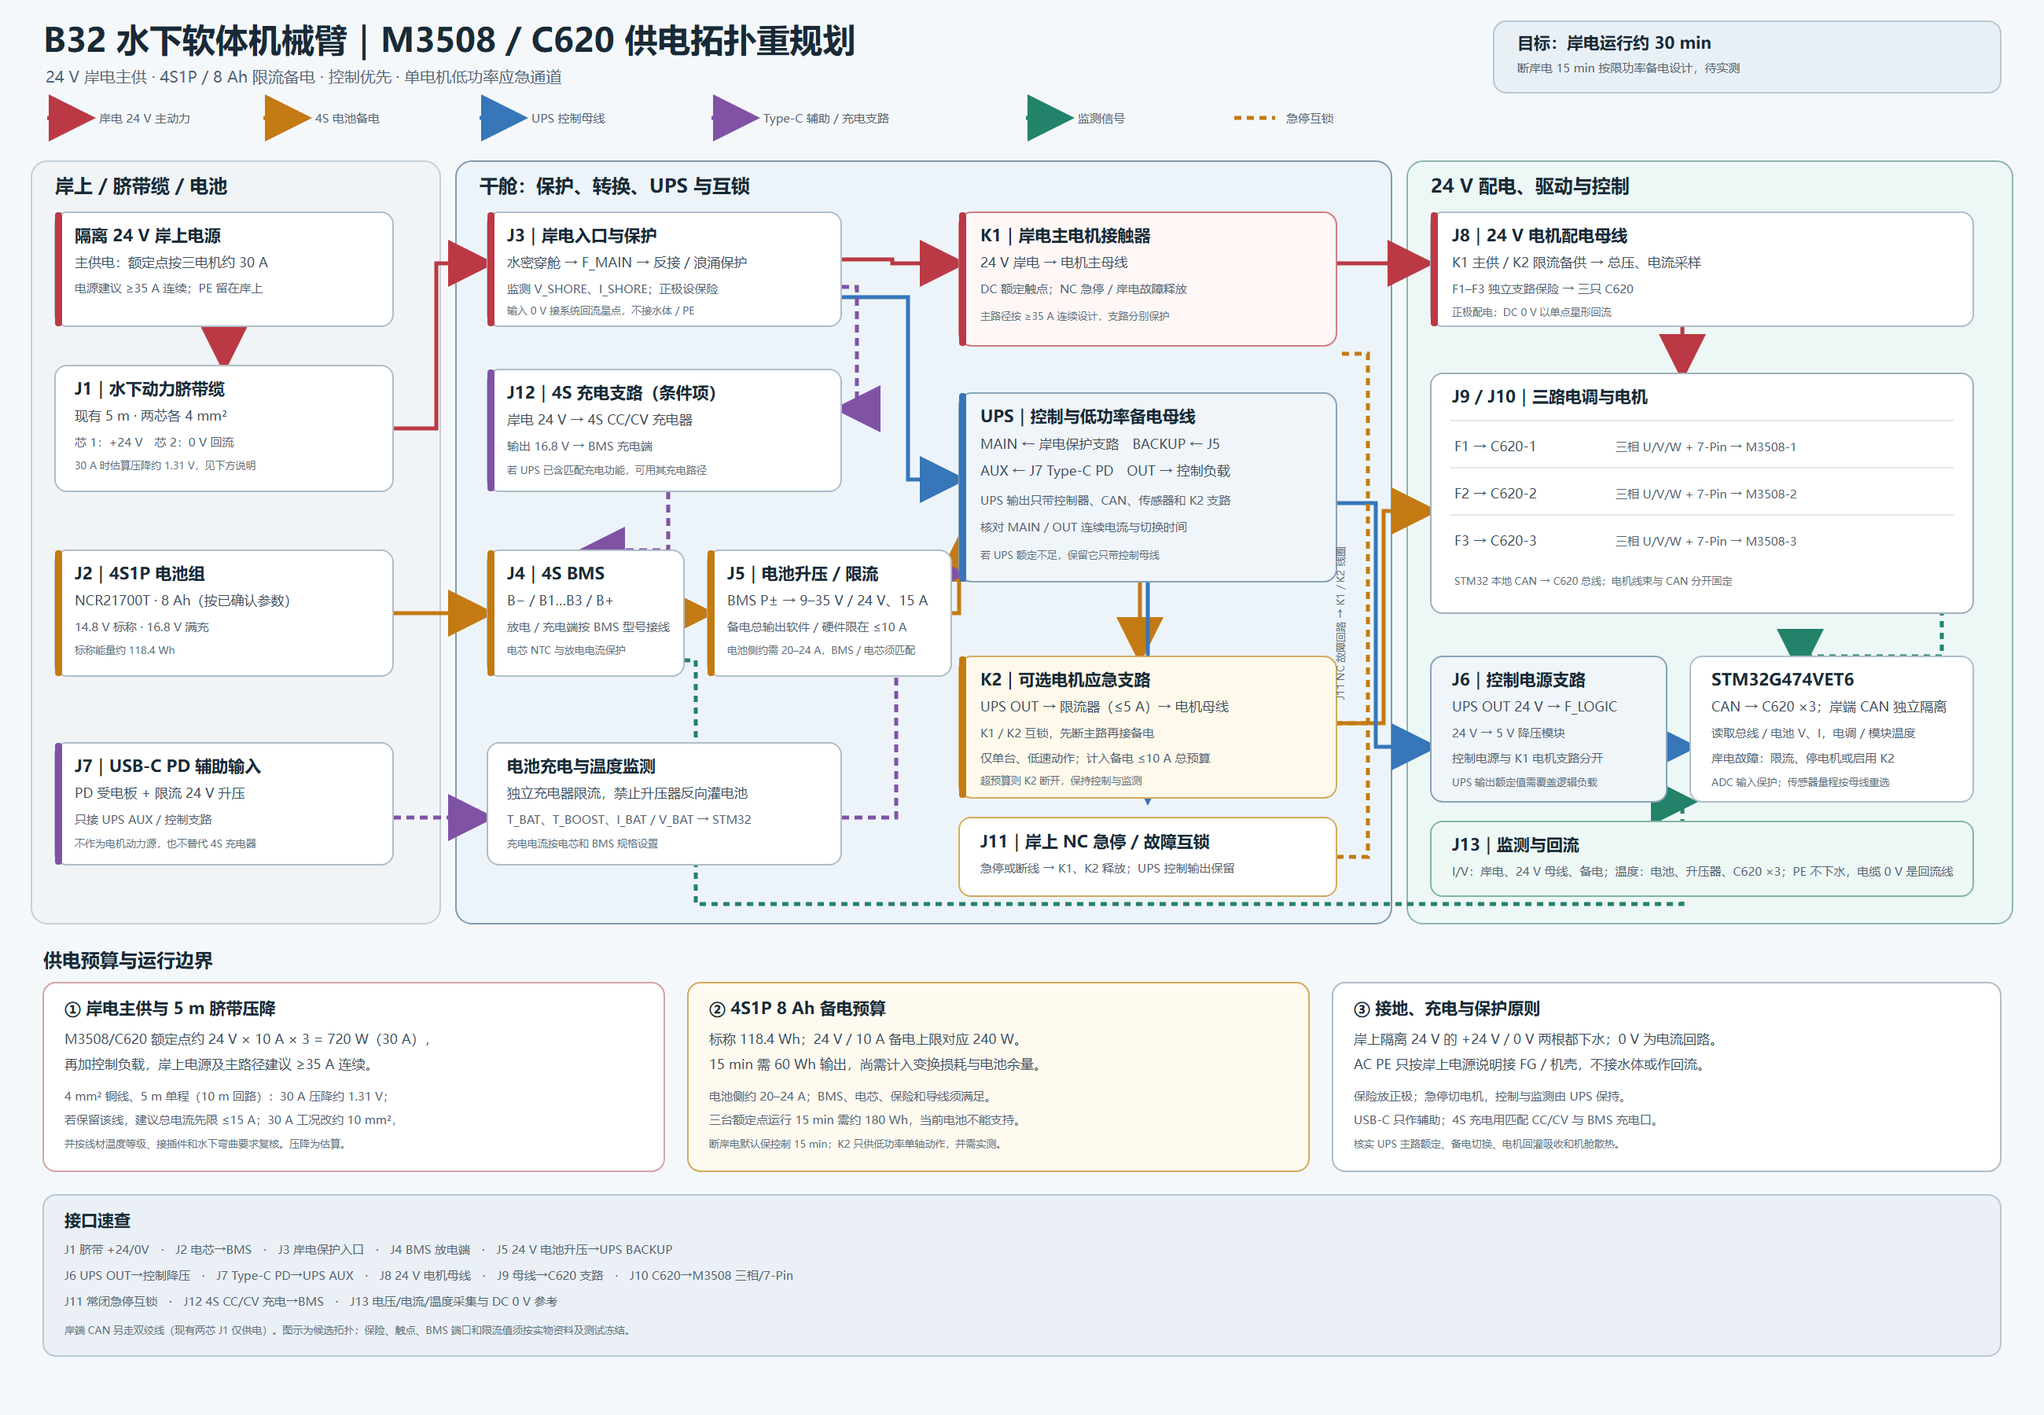
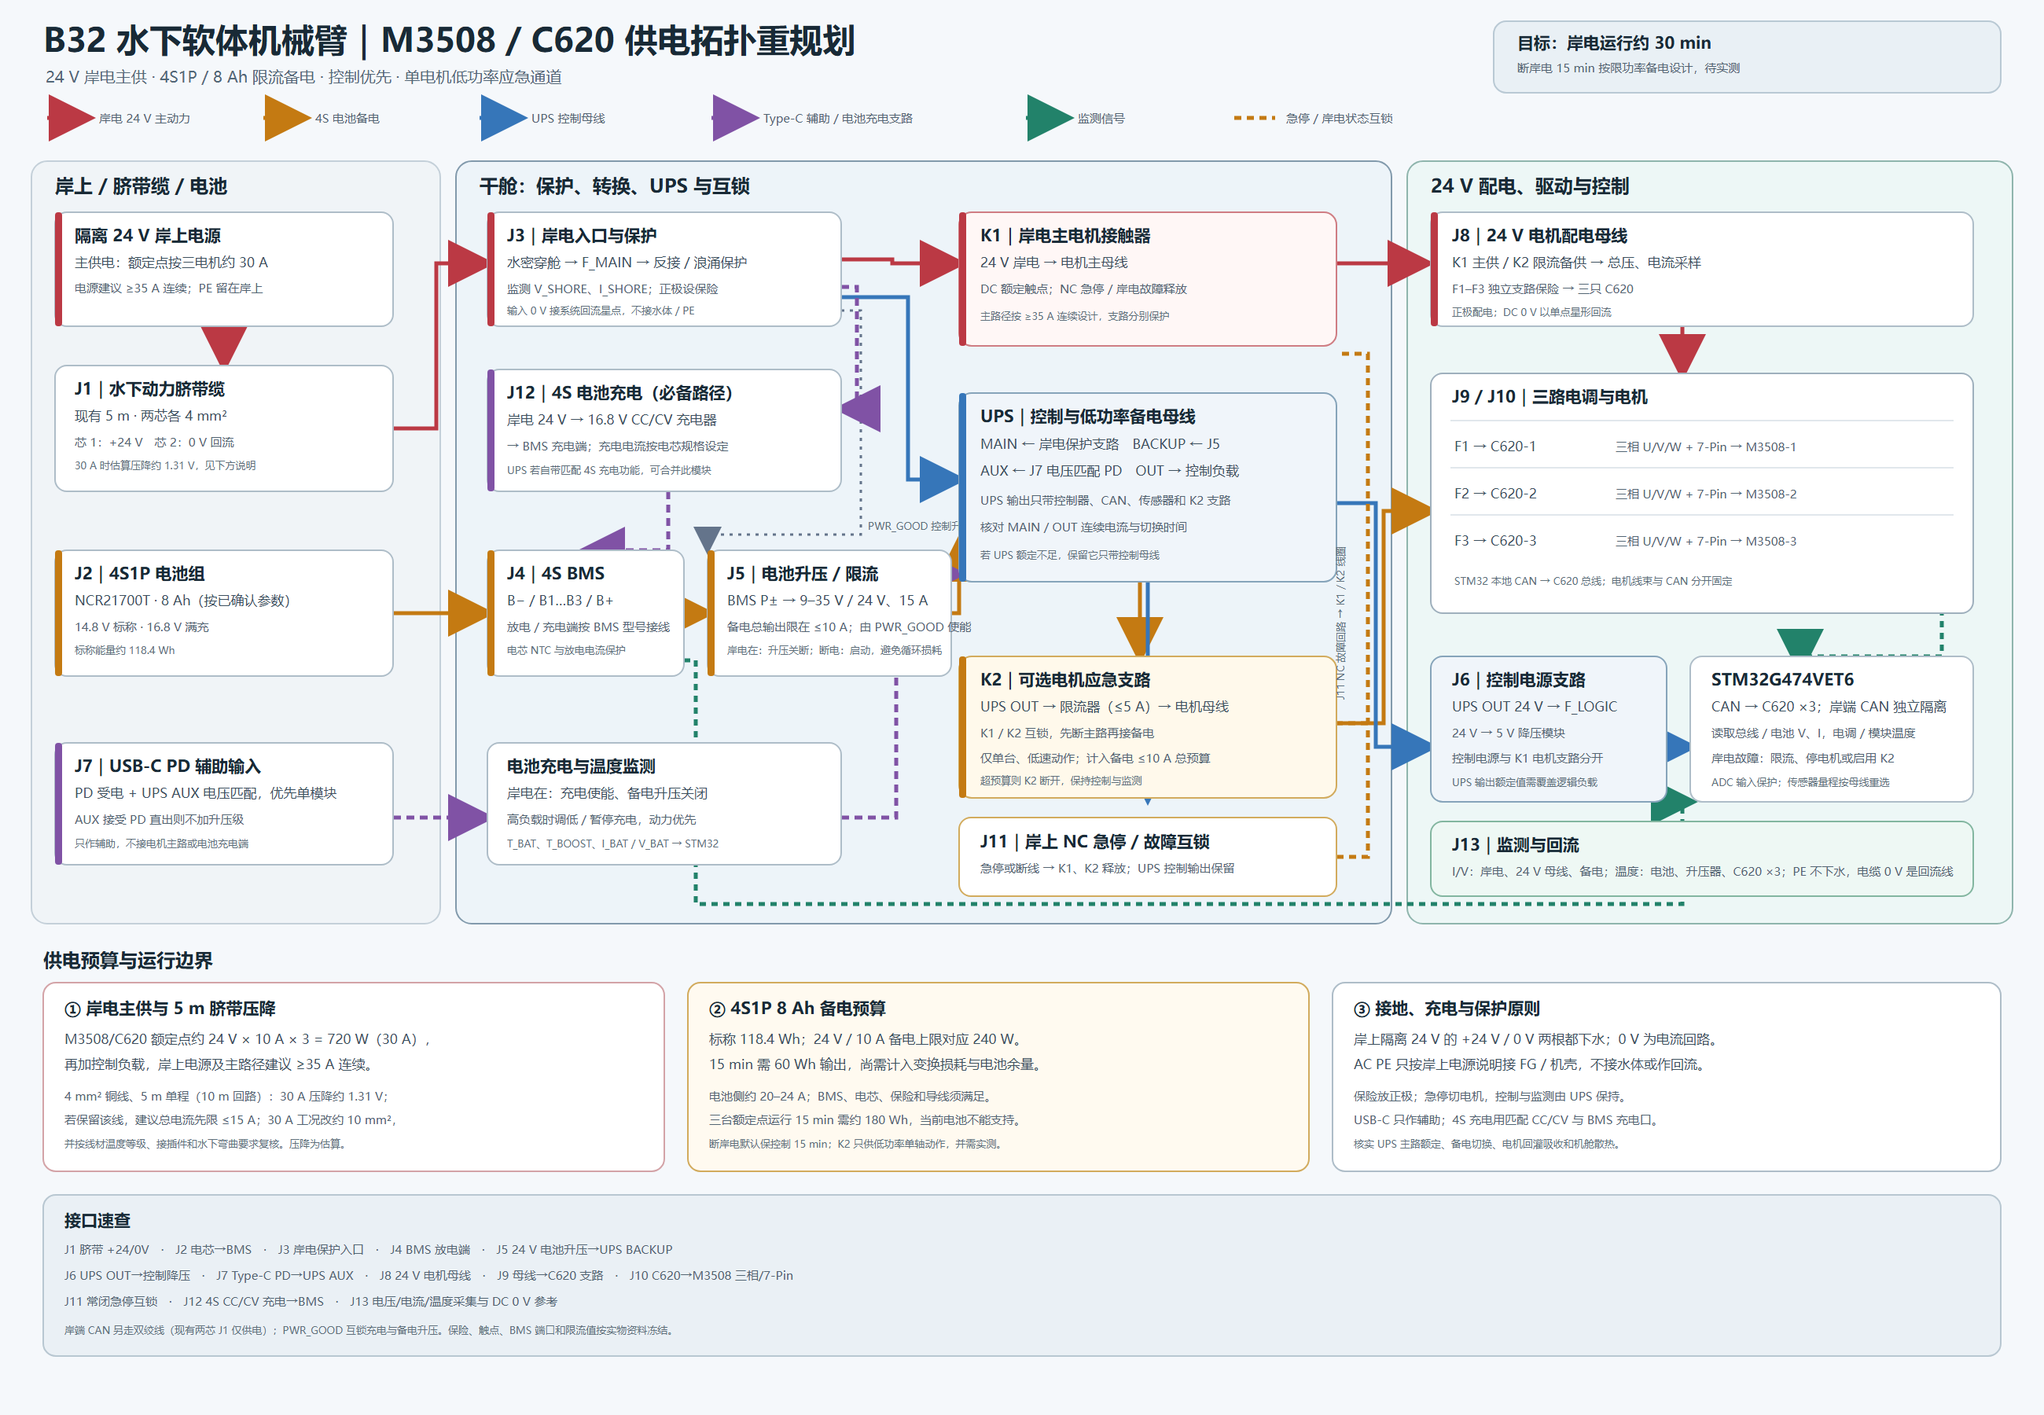
Add shore charging and low-loss power routing

diff --git a/local/spiral-soft-arm/hardware/M3508_C620_供电拓扑重规划_2026-10-25.md b/local/spiral-soft-arm/hardware/M3508_C620_供电拓扑重规划_2026-10-25.md
@@ -1,6 +1,6 @@
 # M3508 / C620 供电拓扑重规划
 
-日期：2026-10-25。本文配套[供电拓扑图 PNG](硬件供电拓扑图_M3508_C620_2026-10-25.png)和[SVG 源图](硬件供电拓扑图_M3508_C620_2026-10-25.svg)。它针对当前三台 DJI M3508 P19、三只 C620、岸上隔离 24 V、5 m 双芯电缆、4S1P 8 Ah 电池、24 V/15 A 电池升压器和 UPS 候选重新安排供电路径。
+日期：2026-10-25。本文配套[供电拓扑图 PNG](硬件供电拓扑图_M3508_C620_2026-10-25.png)和[SVG 源图](硬件供电拓扑图_M3508_C620_2026-10-25.svg)。它针对当前三台 DJI M3508 P19、三只 C620、岸上隔离 24 V、5 m 双芯电缆、4S1P 8 Ah 电池、24 V/15 A 电池升压器和 UPS 候选重新安排供电路径，并加入由岸电给电池充电的互锁路径。
 
 ## 设计目标与采用的结构
 
@@ -11,16 +11,20 @@
   └─ 5 m 脐带缆 → 水密入口 → F_MAIN / 反接与浪涌保护 → 24 V 主输入
        ├─ K1 常开直流接触器 → 电机配电母线 → F1/F2/F3 → C620 ×3 → M3508 ×3
        └─ UPS MAIN → UPS OUT 控制母线 → F_LOGIC → 24→5 V 降压 → STM32 / CAN / 传感器
+       └─ J12 4S CC/CV 充电（16.8 V）→ BMS 充电端；按主路余量限流
 
-4S1P 8 Ah → BMS → F_BAT → 9–35 V→24 V/15 A 升压（备电总限流 ≤10 A）
+4S1P 8 Ah → BMS → F_BAT → 9–35 V→24 V/15 A 升压（PWR_GOOD 互锁，备电总限流 ≤10 A）
        └─ UPS BACKUP → UPS OUT
                 └─ K2 互锁 + ≤5 A 限流 → 电机母线（可选单台低功率应急动作）
 
-USB‑C PD → PD 受电板 / 限流升压 → UPS AUX（低功率辅助）
-岸上 24 V → 4S CC/CV 充电器（如 UPS 不含充电功能）→ BMS 充电端
+USB‑C PD → UPS AUX 电压匹配（可直入则不加升压；否则用一个集成 PD/DC 模块）
 ```
 
-岸电存在时 K1 闭合、K2 断开，电机由岸上 24 V 主路供电；UPS 同时维持 STM32 和传感器。岸电消失后 K1 释放，UPS 接管控制母线。只有在电池、BMS、UPS 余量满足时才允许 K2 接通，且备电总输出保持在 10 A 以内，K2 支路限制在 5 A，并一次只驱动一台电机。K1/K2 必须有电气或机械互锁，避免电池备电回灌到岸电主路。若总电流、低电压或温度越限，K2 断开，控制与监测继续运行。
+岸电存在时 K1 闭合、K2 断开，电机由岸上 24 V 直接供电；UPS 同时维持 STM32 和传感器。岸电也给 4S 电池充电，必须经 16.8 V CC/CV 充电管理和 BMS，不能把 24 V 直接接到电芯。若现有 UPS 已具备适配 4S 电池的完整充电管理，可复用其充电级；否则必须添加一只 24 V 输入的 4S 充电器。
+
+同一时刻禁止“电池充电”和“电池升压给 UPS 供电”：PWR_GOOD 检测到岸电后启用充电、关闭备电升压；岸电消失后关闭充电、启用备电升压。这样避免岸电经充电器给电池充电、再由电池升压回到 24 V 母线形成无效循环。岸电主路电流接近线缆或电源限值时，先降低或暂停充电，动力负载优先。
+
+岸电消失后 K1 释放，UPS 接管控制母线。只有在电池、BMS、UPS 余量满足时才允许 K2 接通，且备电总输出保持在 10 A 以内，K2 支路限制在 5 A，并一次只驱动一台电机。K1/K2 必须有电气或机械互锁，避免电池备电回灌到岸电主路。若总电流、低电压或温度越限，K2 断开，控制与监测继续运行。
 
 ## 接口与走线
 
@@ -29,18 +33,28 @@ USB‑C PD → PD 受电板 / 限流升压 → UPS AUX（低功率辅助）
 | J1 | 隔离岸上 24 V ↔ 脐带缆 | 两芯分别为 +24 V 和 0 V 回流；两根都走水下线缆。岸上 AC PE 按电源说明接 FG/机壳，不接水体。 |
 | J2 | 4S1P 电芯组 → BMS | B−、B1–B3、B+ 电压采样；电池温度探头接 BMS。 |
 | J3 | 脐带缆 → 头端输入保护 | 正极设置总保险；加入反接、浪涌/瞬态保护和岸电电压/电流采样。保护后分给 K1 与 UPS MAIN。 |
-| J4 | BMS P+/P− → 电池升压器 | 正负线都经 BMS；电池正极按升压器输入和线径配置 F_BAT。 |
-| J5 | 24 V/15 A 升压器 → UPS BACKUP | 按总备电 10 A 限流；升压器不得经此口反向给电池充电。备电时电池侧约需 20–24 A，需确认 BMS、电芯与导线持续能力。 |
+| J4 | BMS P+/P− → 电池升压器 | 正负线都经 BMS；电池正极按升压器输入和线径配置 F_BAT；PWR_GOOD 岸电检测控制升压器使能。 |
+| J5 | 24 V/15 A 升压器 → UPS BACKUP | 岸电存在时升压器关闭，断电后启用；备电总输出限在 10 A，禁止充放电循环。约需 20–24 A 电池侧电流，需确认 BMS、电芯与导线持续能力。 |
 | J6 | UPS OUT → 控制电源 | UPS 输出经 F_LOGIC 到 24→5 V 降压模块，再到 STM32G474VET6；控制地接本机 DC 0 V。 |
-| J7 | Type‑C PD → UPS AUX | 经 PD 受电与限流升压模块；只作低功率辅助，不能接电机母线。除非模块明确具备 4S CC/CV 充电能力，不得用它直接给电池充电。 |
+| J7 | Type‑C PD → UPS AUX | 只作低功率辅助。若 UPS AUX 接受所协商的 PD 电压，直接接入；否则使用单块集成 PD 受电与 DC/DC 模块，避免 PD 板后再串独立升压器。不能接电机母线或替代 4S 充电器。 |
 | J8 | 电机主母线 → C620 电源支路 | K1 为岸电主路；K2 是互锁的备电支路。母线设置总电流采样，C620 各自设置 F1–F3。 |
 | J9 | 配电母线 → C620 ×3 | 24 V 正负电源分别到三只电调；按所购线束、接插件和 C620 输入要求制作。 |
 | J10 | C620 ×3 → M3508 ×3 | 每台同时接三相 U/V/W 与配套 7‑Pin 数据线；三相线与信号线分束固定。 |
 | J11 | 岸上 NC 急停回路 → K1/K2 线圈 | 急停、断线或控制电源故障时释放动力接触器，UPS 控制输出继续供电。接触器触点需为直流额定。 |
-| J12 | 4S 充电器 → BMS 充电端 | 若 UPS 没有合适的 4S 充电功能，使用 24 V 输入、16.8 V 输出的 CC/CV 充电器；充电电流按电芯与 BMS 规格设置。 |
+| J12 | 岸电保护支路 → 4S 充电器 → BMS 充电端 | 24 V 输入、16.8 V 输出 CC/CV；若 UPS 已有适用 4S 充电管理可复用。充电电流按电芯与 BMS 规格设置，并随岸电主路余量调节。 |
 | J13 | 电压、电流、温度 → STM32/BMS | 采集岸电、主母线、备电、电池电流/电压；测电池、升压器和三只 C620 温度。电芯温度优先接 BMS。 |
 
 岸上隔离电源的 0 V 是 +24 V 回流线，不需要另找水下地线。不得让水体、拉索、屏蔽层或塑料舱体承担回流。若使用屏蔽通信缆，屏蔽层与 PE 的接法按接口隔离方案处理；岸端 CAN 应与本机电源地隔离。现有两芯动力缆不含 CAN 双绞线，岸端 CAN 需另走通信双绞线，或另选复合脐带缆。
+
+## 减少变换级与电力损耗
+
+- 电机动力直接使用岸上 24 V 主路，不经过 24→12→24 或 UPS 输出级。
+- 逻辑电源从 24 V 控制母线通过单级 24→5 V 降压供电，不再串接 12 V 中间级。
+- 24 V→4S 只在岸电存在时作为充电级工作；4S→24 V 只在岸电失效时作为备电级工作。若现有 UPS 含适合 4S 的充电管理，可将充电级合并进 UPS；否则这两个单向功能必须分别实现。
+- Type‑C 先协商 UPS AUX 可直接接受的电压；可直入时不增加转换级，不能直入时选一块集成 PD/DC 模块，不串接“PD 输入板 + 独立升压板”。
+- 主动力、充电、逻辑三路分开；电源总线采用短粗线、单点 0 V 星形回流和匹配电流的接插件。岸电高负载时降低充电电流，备电升压关闭时压低其静态耗电。
+
+若要把 4S 充电级与 4S→24 V 备电升压级合成一个双向 DC/DC，模块必须同时支持 4S CC/CV 充电、24 V 反向输出、输入优先与反灌保护，并满足备电功率。当前备电上限 24 V/10 A 为 240 W 连续功率；常见小功率双向充电板不能直接视为满足该额定值。先核对现有 UPS/转换器铭牌，不用低功率板替代已确认的 24 V/15 A 升压级。
 
 ## 粗略功率预算
 
@@ -58,7 +72,7 @@ USB‑C PD → PD 受电板 / 限流升压 → UPS AUX（低功率辅助）
 
 1. 岸电与电池备电正极分别保护；电机三路分别保护；保护器件按线材、接插件、电调和测得峰值电流选择，不在本候选图中预设保险丝安培数。
 2. K1/K2 执行先断后合，阻断主路与备电路之间的反向电流。急停硬接线切断电机动力，STM32 与记录数据由 UPS 保持。
-3. 岸电丢失后固件切换为低功率模式：默认停止电机，仅在有明确安全动作时单台低速点动；全系统备电输出不超过 10 A。
+3. 岸电存在时，电池充电器工作、备电升压器关闭；岸电丢失时充电器关闭、备电升压器启用。固件切换为低功率模式：默认停止电机，仅在有明确安全动作时单台低速点动；全系统备电输出不超过 10 A。
 4. 监测过流、低电压、升压器过温、C620 过温与电池温度。触发阈值按电芯、BMS、UPS 和电调资料设定，并在台架测试中验证。
 5. C620 电机制动可能造成母线能量回灌；按 C620 手册确认回灌处理和过压保护方案后再定型。
 

diff --git a/local/spiral-soft-arm/hardware/M3508_C620_干式驱动拓扑候选_2026-10-25.md b/local/spiral-soft-arm/hardware/M3508_C620_干式驱动拓扑候选_2026-10-25.md
@@ -12,10 +12,15 @@
 岸上隔离 24 V → 双芯脐带缆 → 输入保险/反接与浪涌保护 → 24 V 电机主母线
                                                      ├─ K1 主电机接触器 → 三路保险 → C620 ×3 → M3508 ×3
                                                      └─ UPS MAIN → 控制与监测母线
-4S1P 电池 → BMS → 保险 → 24 V / 15 A 升压（备电限流）→ UPS BACKUP → 控制母线
-USB-C PD → PD 受电与限流升压 → UPS AUX（只作低功率控制辅助）
+                                                     └─ 4S CC/CV 充电器 24→16.8 V → BMS 充电端
+4S1P 电池 → BMS → 保险 → 24 V / 15 A 升压（PWR_GOOD互锁，仅岸电失效时开）→ UPS BACKUP → 控制母线
+USB-C PD → 单块电压匹配的 PD/AUX 模块 → UPS AUX（仅低功率辅助）
 岸电故障 → K1 断开；控制、CAN 和监测继续由 UPS 供电；可选 K2 仅允许限流的单电机应急动作
 ```
+
+岸电存在时，24 V 直接供电机主路，并通过 4S CC/CV 充电器为电池充电；如果现有 UPS 内置了适用于 4S 电池的充电管理，可复用该级，否则需增加独立充电器。检测到岸电后关闭电池升压器，岸电丢失后先禁用充电器再启用升压器，避免充电与放电回路互相耗电。充电电流随岸电总电流调节，主动力优先。
+
+Type‑C 只作为 UPS AUX 辅助输入。若 UPS AUX 接受 USB‑C PD 协商电压，就直接供电；否则用一块集成 PD 受电和所需 DC/DC 的模块，不采用两个转换模块串联。STM32 控制电源从 24 V 控制母线经单级 24→5 V 降压供电，省去 24→12→5 V 级联。
 
 C620 接收 CAN 指令，也支持 PWM；当前建议用本地 CAN，因为 C620 可返回电机温度、位置和转速。电机与电调之间必须同时连接三相功率线和 7-Pin 数据线，不能仅连接 CAN。C620 的 49.4 × 25.8 × 11.5 mm 尺寸不含线束，CAD 中三块电调是本体包络；接插件朝向和线束弯曲半径需要拿到实物后补画。[大疆 M3508/C620 产品页](https://www.robomaster.com/zh-CN/products/components/general/M3508)、[M3508 官方手册](https://rm-static.djicdn.com/robomasters/public/document/RoboMaster%20M3508%20P19%20Brushless%20DC%20Gear%20Motor%20V1.0.pdf)。
 
@@ -23,6 +28,6 @@ C620 接收 CAN 指令，也支持 PWM；当前建议用本地 CAN，因为 C620
 
 4S1P、14.8 V、8 Ah 的标称能量约 118.4 Wh。即使忽略损耗，三台在额定工作点运行 15 分钟需要约 180 Wh；所以当前电池不应被画成三台电机满额备电源。默认断岸电策略为 K1 断开、控制/通信/监测继续运行，备电总输出限流至 10 A；只有 UPS/BMS 实际额定值和温升允许时，才启用 K2 单台电机低功率动作，且电机动作电流包含在 10 A 总预算内。电池侧升压输入约需 20–24 A（随电池电压和效率变化），需核对电芯、BMS、导线与保险的持续能力。
 
-Type‑C PD 作为低功率辅助源，只能接 UPS AUX/控制支路；除非模块明确具备匹配的 CC/CV 充电功能，不得将它当作 4S 电池充电器。若 UPS 不含 4S 充电功能，应从岸上 24 V 加独立 16.8 V CC/CV 充电器接 BMS 充电端。
+4S 电池必须能由岸上电源充电：岸上保护后的 24 V 接 16.8 V CC/CV 充电级，再接 BMS 的正确充电端；若 UPS 已集成适配 4S 的充电管理则复用。Type‑C 仅供 UPS AUX，不负责给电池充电。电池升压器只在岸电失效时开启，充电和升压由岸电有效信号互锁。
 
 本拓扑仍未冻结保险丝、K1/K2 线圈与触点额定值、UPS 直通电流、主电源型号、接插件、BMS 型号和 STM32 引脚号。若现有 UPS 的 24 V 主路不能连续通过 35 A，电机主路应旁路该 UPS，UPS 只带控制母线；装配前按实物手册核对端口，单台验证电流和温升，再接入三机与拉索。

diff --git a/local/spiral-soft-arm/solidworks/electronics_enclosure_v16/README_大陆可采购减速电机与直角传动.md b/local/spiral-soft-arm/solidworks/electronics_enclosure_v16/README_大陆可采购减速电机与直角传动.md
@@ -29,6 +29,8 @@ M2006/C610 的厂家标称持续最大扭矩为 1 N·m；本版 M3508/C620 为 3
 
 C620 需与 M3508 以三相线及 7-Pin 数据线成套连接；STM32 可以通过本地 CAN 或 PWM 控制 C620。岸上 CAN 与舱内 C620 总线应分别配置收发器、终端及故障隔离。供电采用岸电直供电机主路、UPS 保持控制、备电限流的结构：三台电机在厂家额定工作点约需 30 A，因此岸上电源及主路建议至少 35 A 连续；原 24 V/15 A 稳压器位于电池备电支路，不足以承担三台满额电机负载。当前供电拓扑将备电总输出限制在 10 A，K2 应急电机支路限制在 5 A，且一次只允许单台低速动作；现有 4 mm²、5 m 脐带缆若保留，主路还应限流。详见[供电拓扑与接口说明](../../hardware/M3508_C620_供电拓扑重规划_2026-10-25.md)。电源额定、总线限流和动作时序仍需按实物核定，并进行 30 分钟温升与 15 分钟断岸电试验；当前 CAD 不证明这些功能。
 
+电池的充电路径从岸上隔离 24 V 取电，经 16.8 V CC/CV 充电级和 BMS 接入 4S 组；若 UPS 已内置适用的 4S 充电管理则复用。岸电有效时电池升压器关闭，岸电失效后才启用；Type‑C 只接 UPS AUX，按 AUX 输入电压匹配，尽量免去额外升压模块。
+
 ## 文件及验证状态
 
 - [总装 STEP](B32_v16_减速电机直角传动总装.step)：独立零件装配，包括三台电机、三块 C620、传动轴、轴承、轴封、齿轮包络、共用干仓与机械臂。
